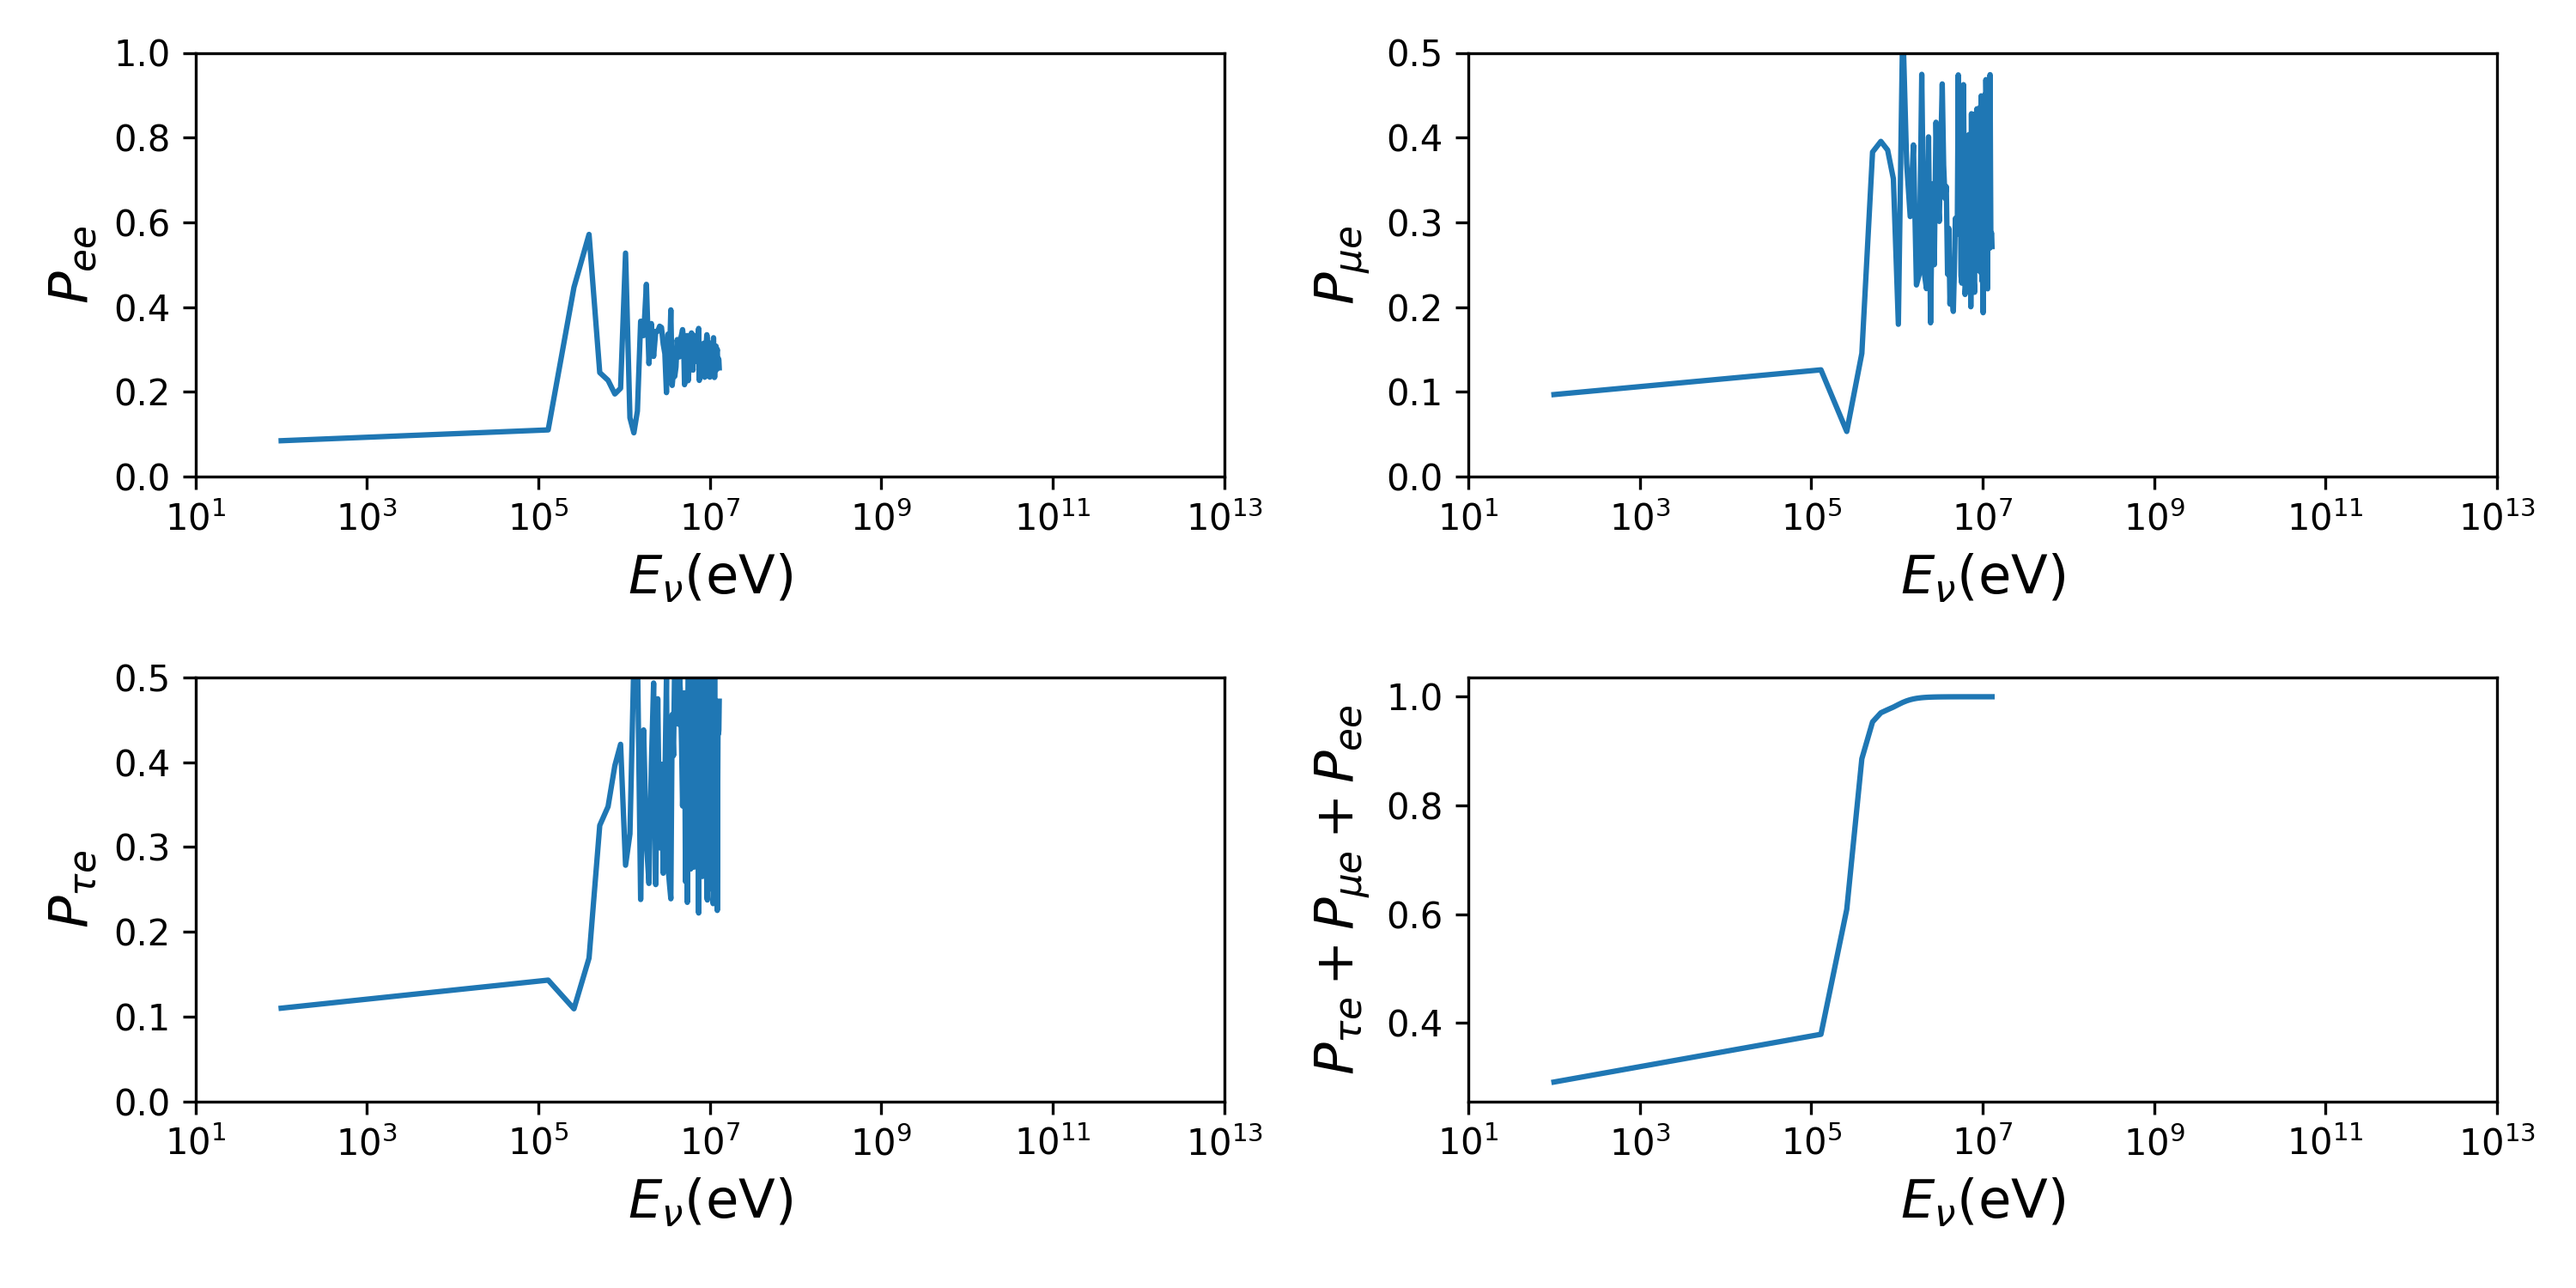
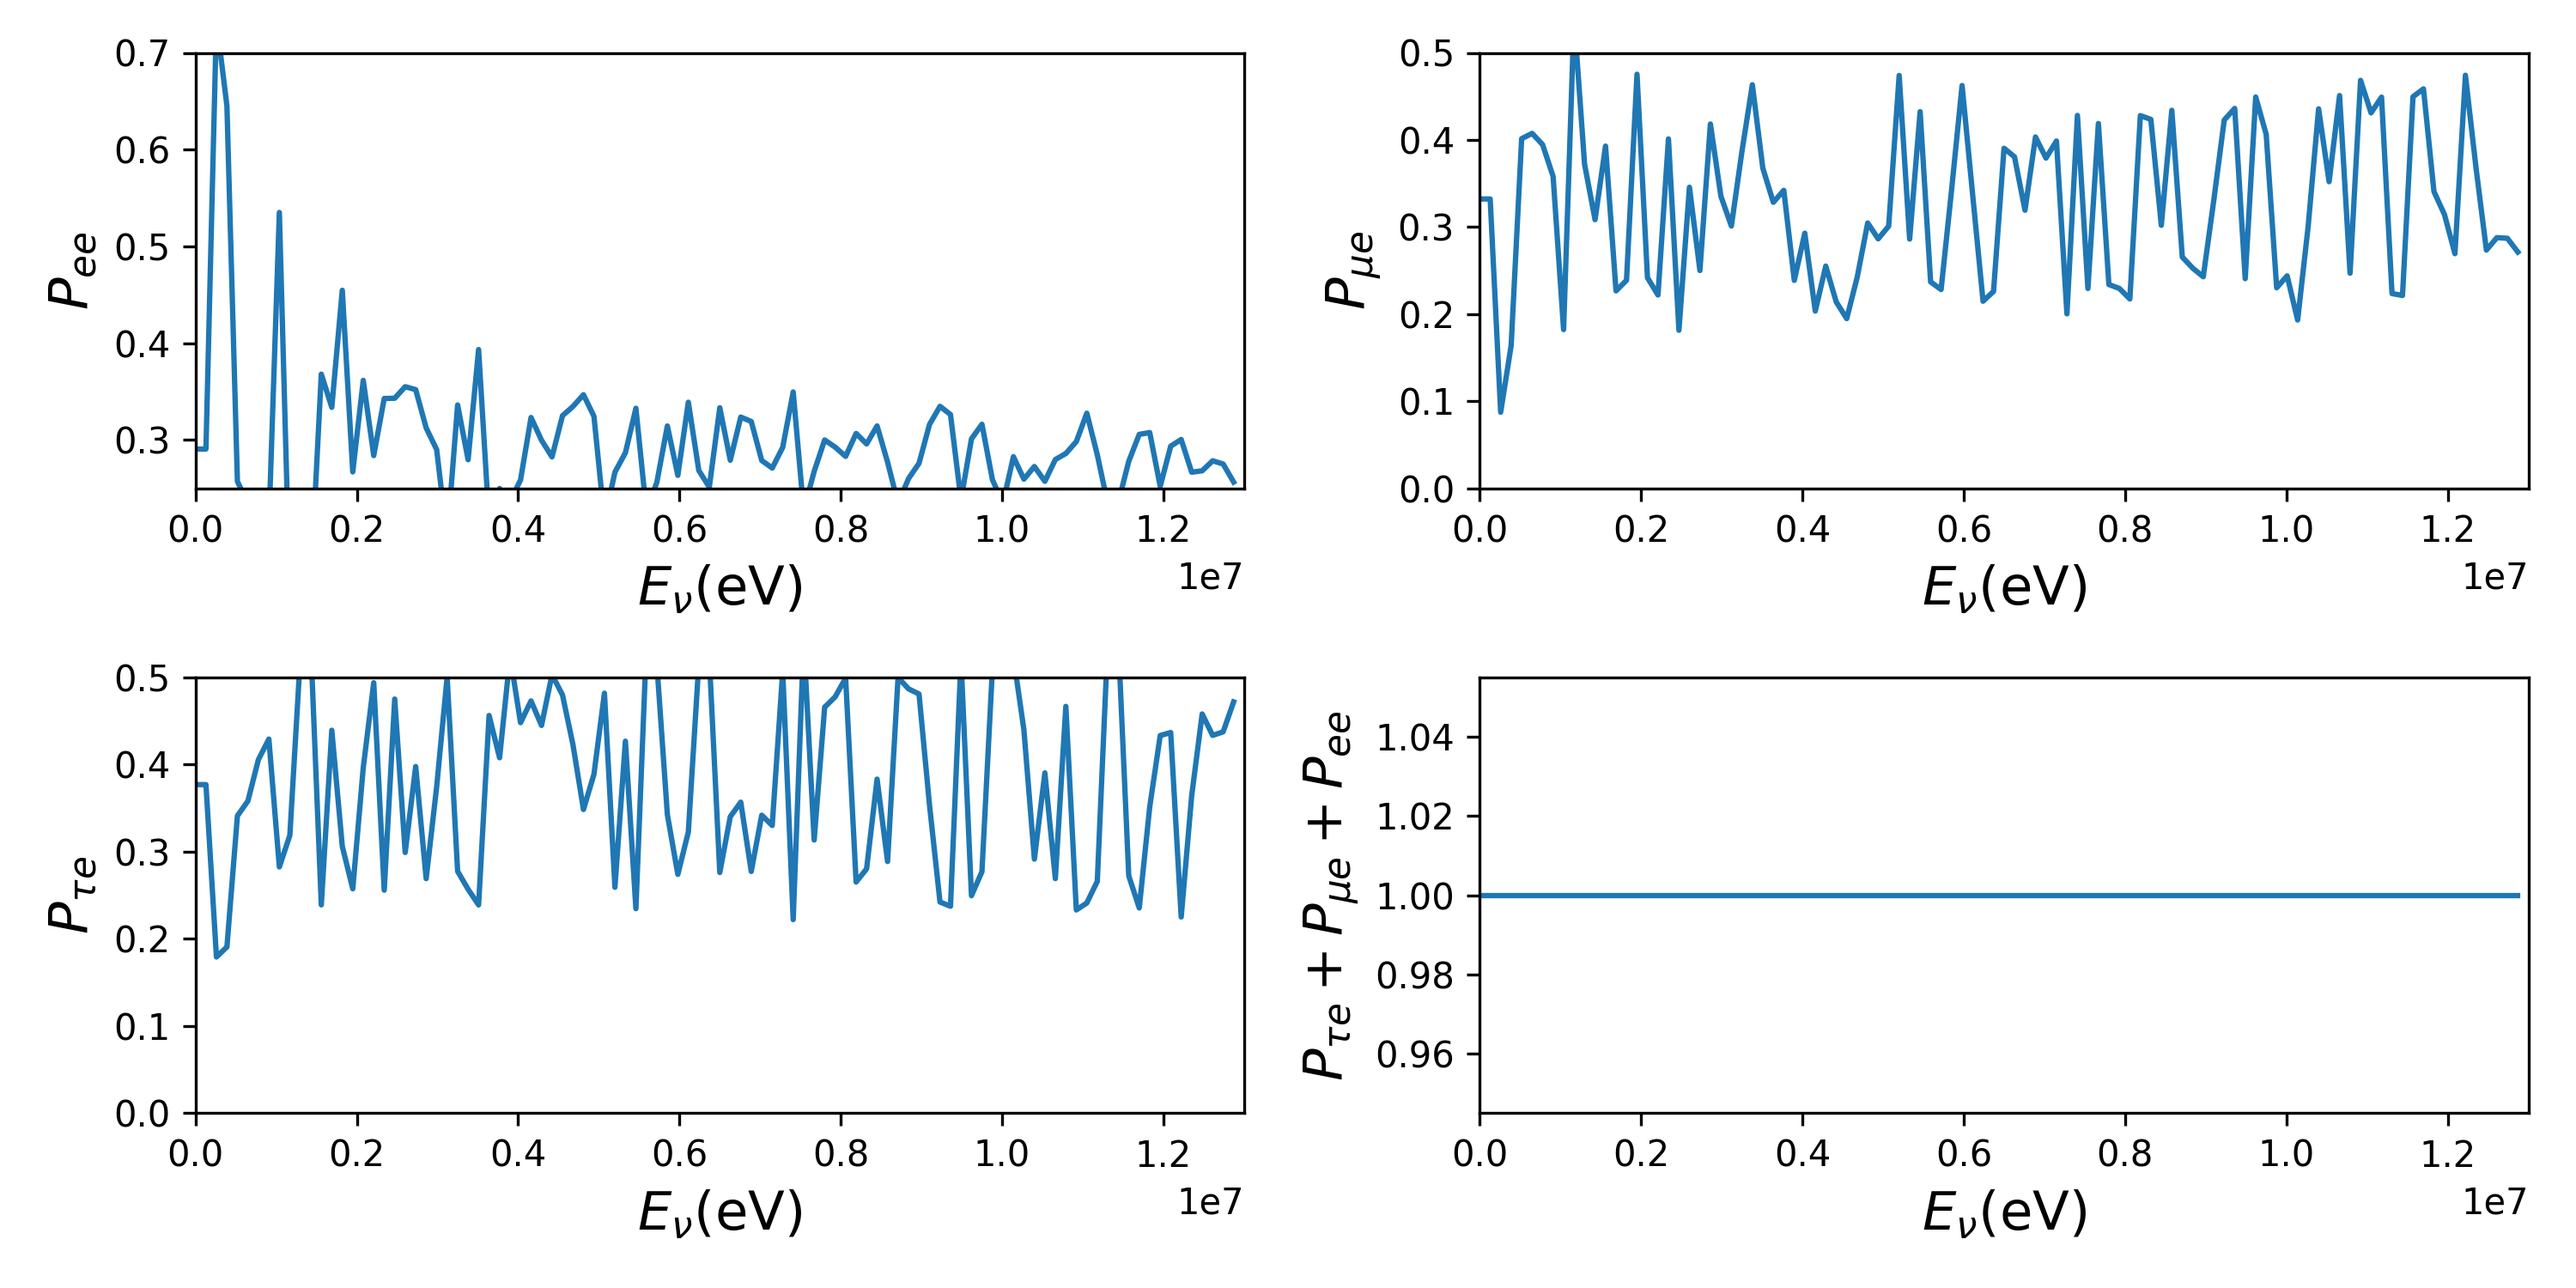
chacking new plots

diff --git a/uandino_v02/uandino_v02.cpp b/uandino_v02/uandino_v02.cpp
@@ -18,10 +18,10 @@ using namespace std;
 //Mass differences
 //double dM32 = 1e-4; //eV^2
 //double dm21 = 1e-8; //eV^2
-double dM32 = 3.2E-3; //eV^2
-double dm21 = 0.0; //eV^2
-//double dM32 = 2.45e-3;
-//double dm21 = 7.53e-5;
+//double dM32 = 3.2E-3; //eV^2
+//double dm21 = 0.0; //eV^2
+double dM32 = 2.45e-3;
+double dm21 = 7.53e-5;
 //Vacuum mixing angles
 
 double thetaA = 45.; //Degrees
@@ -399,16 +399,16 @@ void calculateProbabilities(){
   /*Writes a file with energies and all three probabilities*/
 	int threads =4;
   //CKM matrix elements calculated just once.
-///*
+/*
 	double theta1=deg2rad(thetaA);
 	double theta2=deg2rad(thetaB);
 	double theta3=deg2rad(thetaC);
-  //*/
-  /*
+  */
+  ///*
   double theta1 = 0.7222;
   double theta2 = 0.1468;
   double theta3 = 0.5764;
-  */
+//  */
   Ue1 = gsl_sf_cos(theta2)*gsl_sf_cos(theta3);
   Ue2 = gsl_sf_sin(theta3)*gsl_sf_cos(theta2);
   Ue3 = gsl_sf_sin(theta2);
@@ -460,7 +460,7 @@ void calculateProbabilities(){
 	#pragma omp parallel for private(i,k)
 <<<<<<< HEAD
 <<<<<<< HEAD
-  
+
 =======
 >>>>>>> d1796967b593cc5a49d13250ccf39e87aa93ced1
 	for(i=0;i<N;i++){//For each energy...

diff --git a/uandino_v02/results/sun_0-13e6-real_params_100MS.285724.clustermaster.uniandes.edu.co/plotTheThing.py b/uandino_v02/results/sun_0-13e6-real_params_100MS.285724.clustermaster.uniandes.edu.co/plotTheThing.py
@@ -11,6 +11,7 @@ def normalize(data):
 
 probData=np.loadtxt('probsTest.csv', delimiter=',', dtype=float)
 probabilities, ax = plt.subplots(2, 2, figsize=(10, 5))
+normalize(probData)
 ax[0, 0].plot(probData[:,0], probData[:,1])
 ax[0, 1].plot(probData[:,0], probData[:,2])
 ax[1, 0].plot(probData[:,0], probData[:,3])
@@ -23,13 +24,13 @@ ax[1, 1].set_ylabel('$P_{\\tau e}+P_{\mu e}+ P_{e e}$', fontsize=15)
 
 for i in range(2):
     for k in range(2):
-        ax[i,k].set_xscale('log')
+        #ax[i,k].set_xscale('log')
         ax[i,k].set_xlabel('$E_{\\nu}$(eV)', fontsize=15)
-        ax[i,k].set_xlim(1e1, 1e13)
+        ax[i,k].set_xlim(1e1, 13e6)
 #ax[1,1].set_ylim(1-0.00001, 1+0.00001)
 ax[0,1].set_ylim(0,0.5)
 ax[1,0].set_ylim(0,0.5)
-ax[0,0].set_ylim(0,1)
+ax[0,0].set_ylim(0.25,0.7)
 
 plt.tight_layout()
 plt.gcf()
